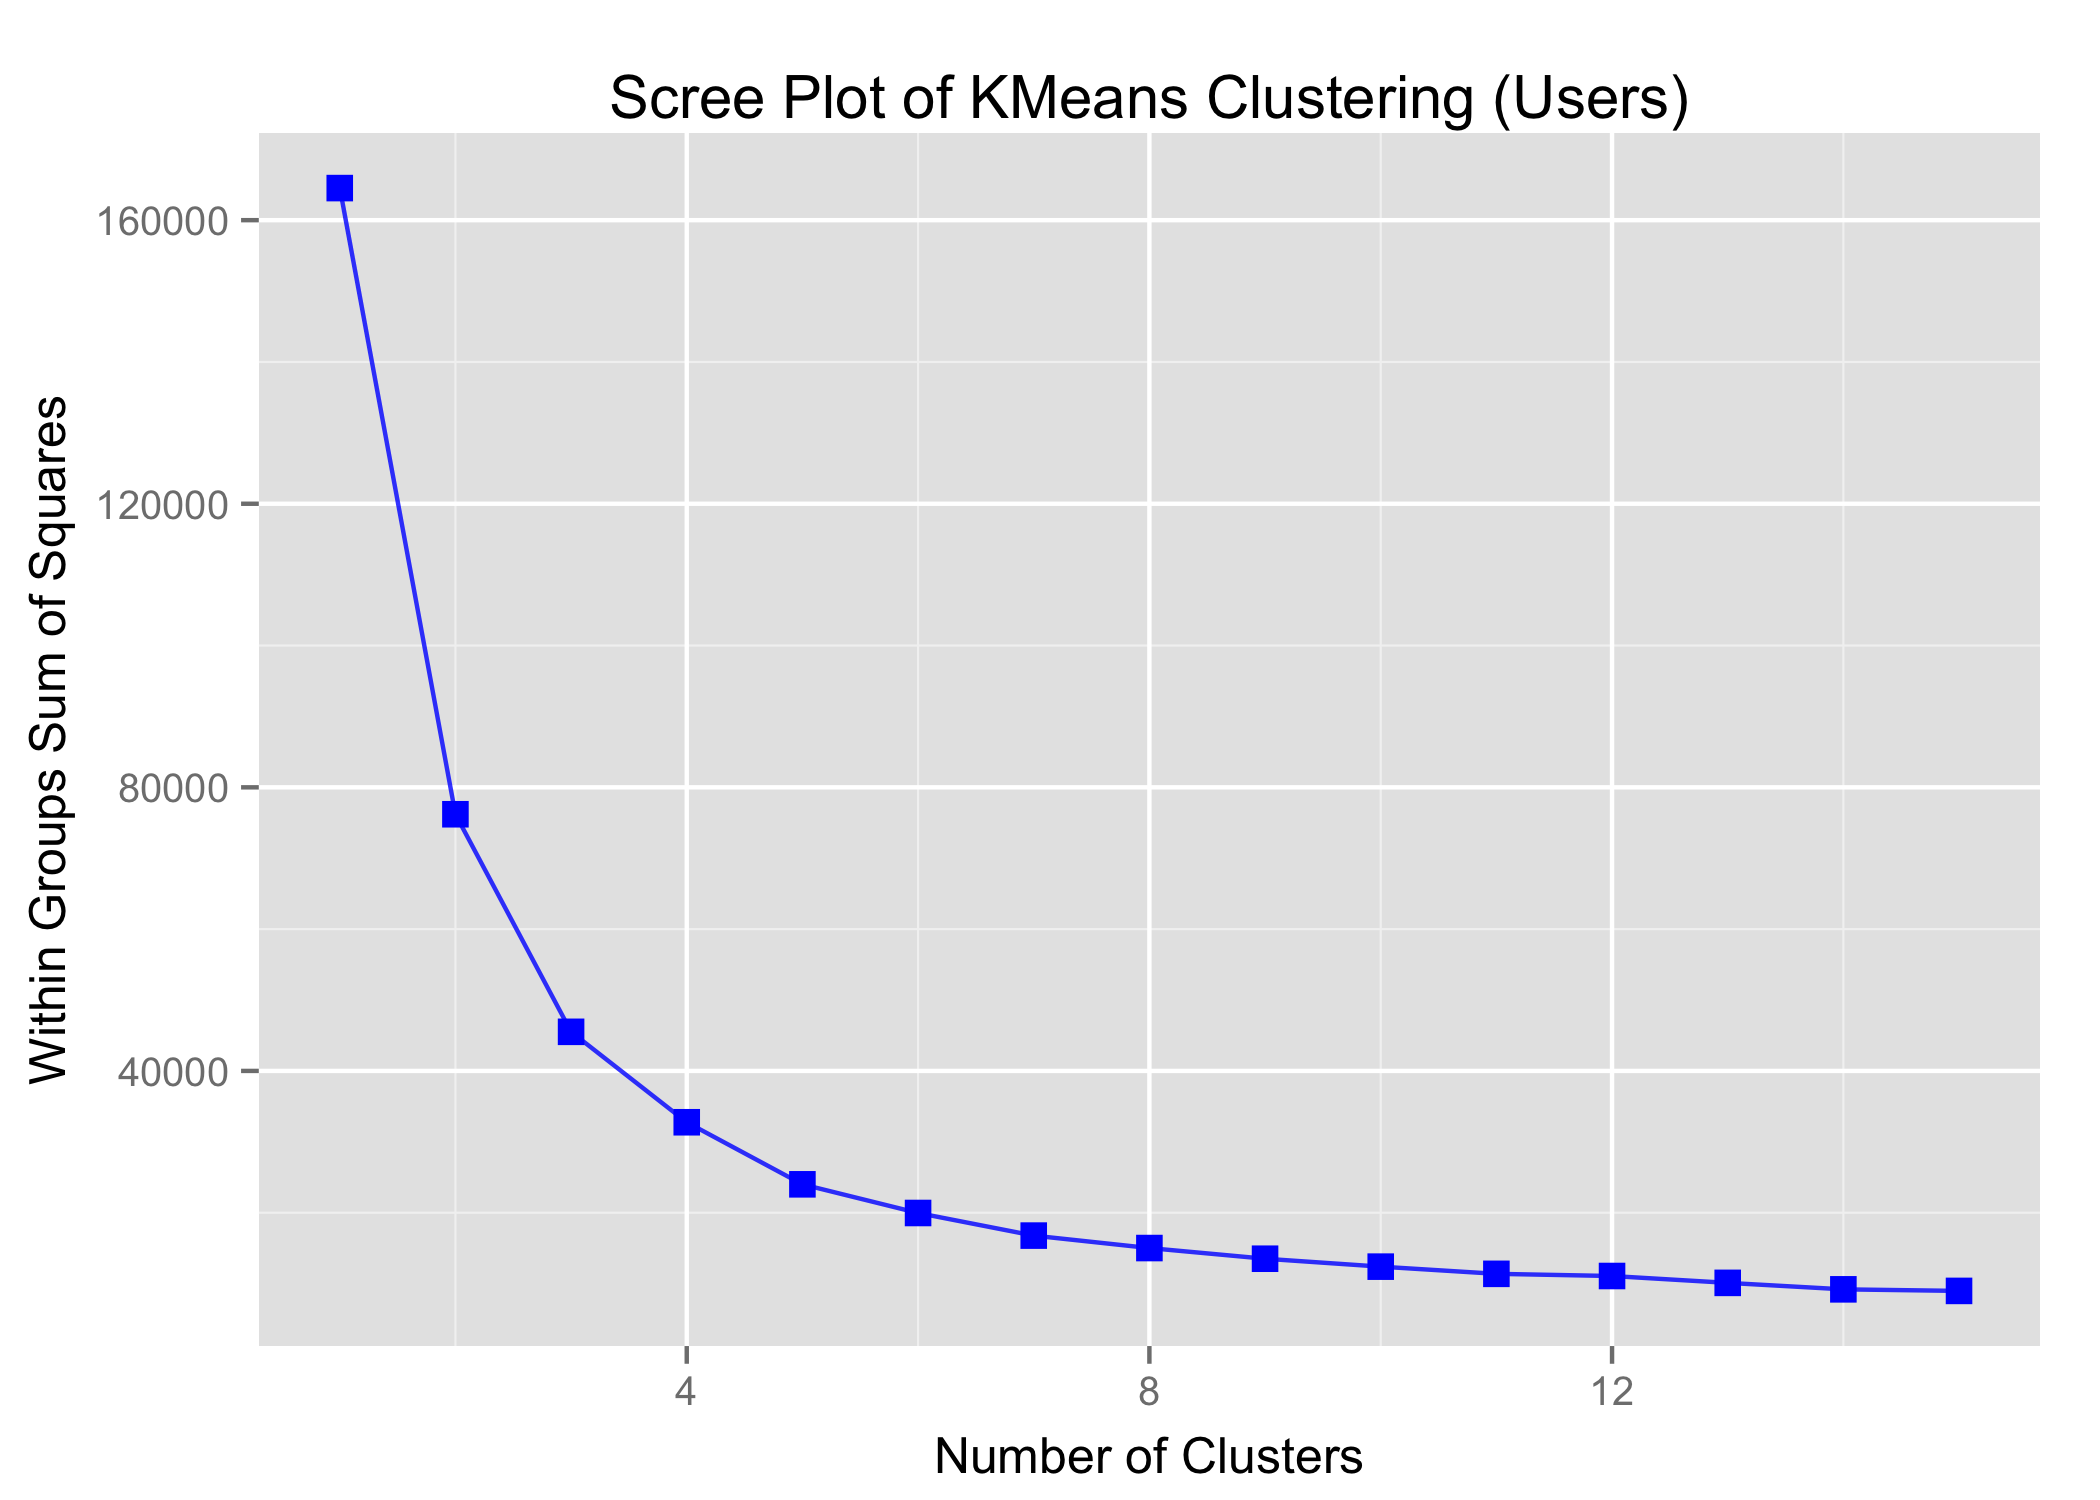
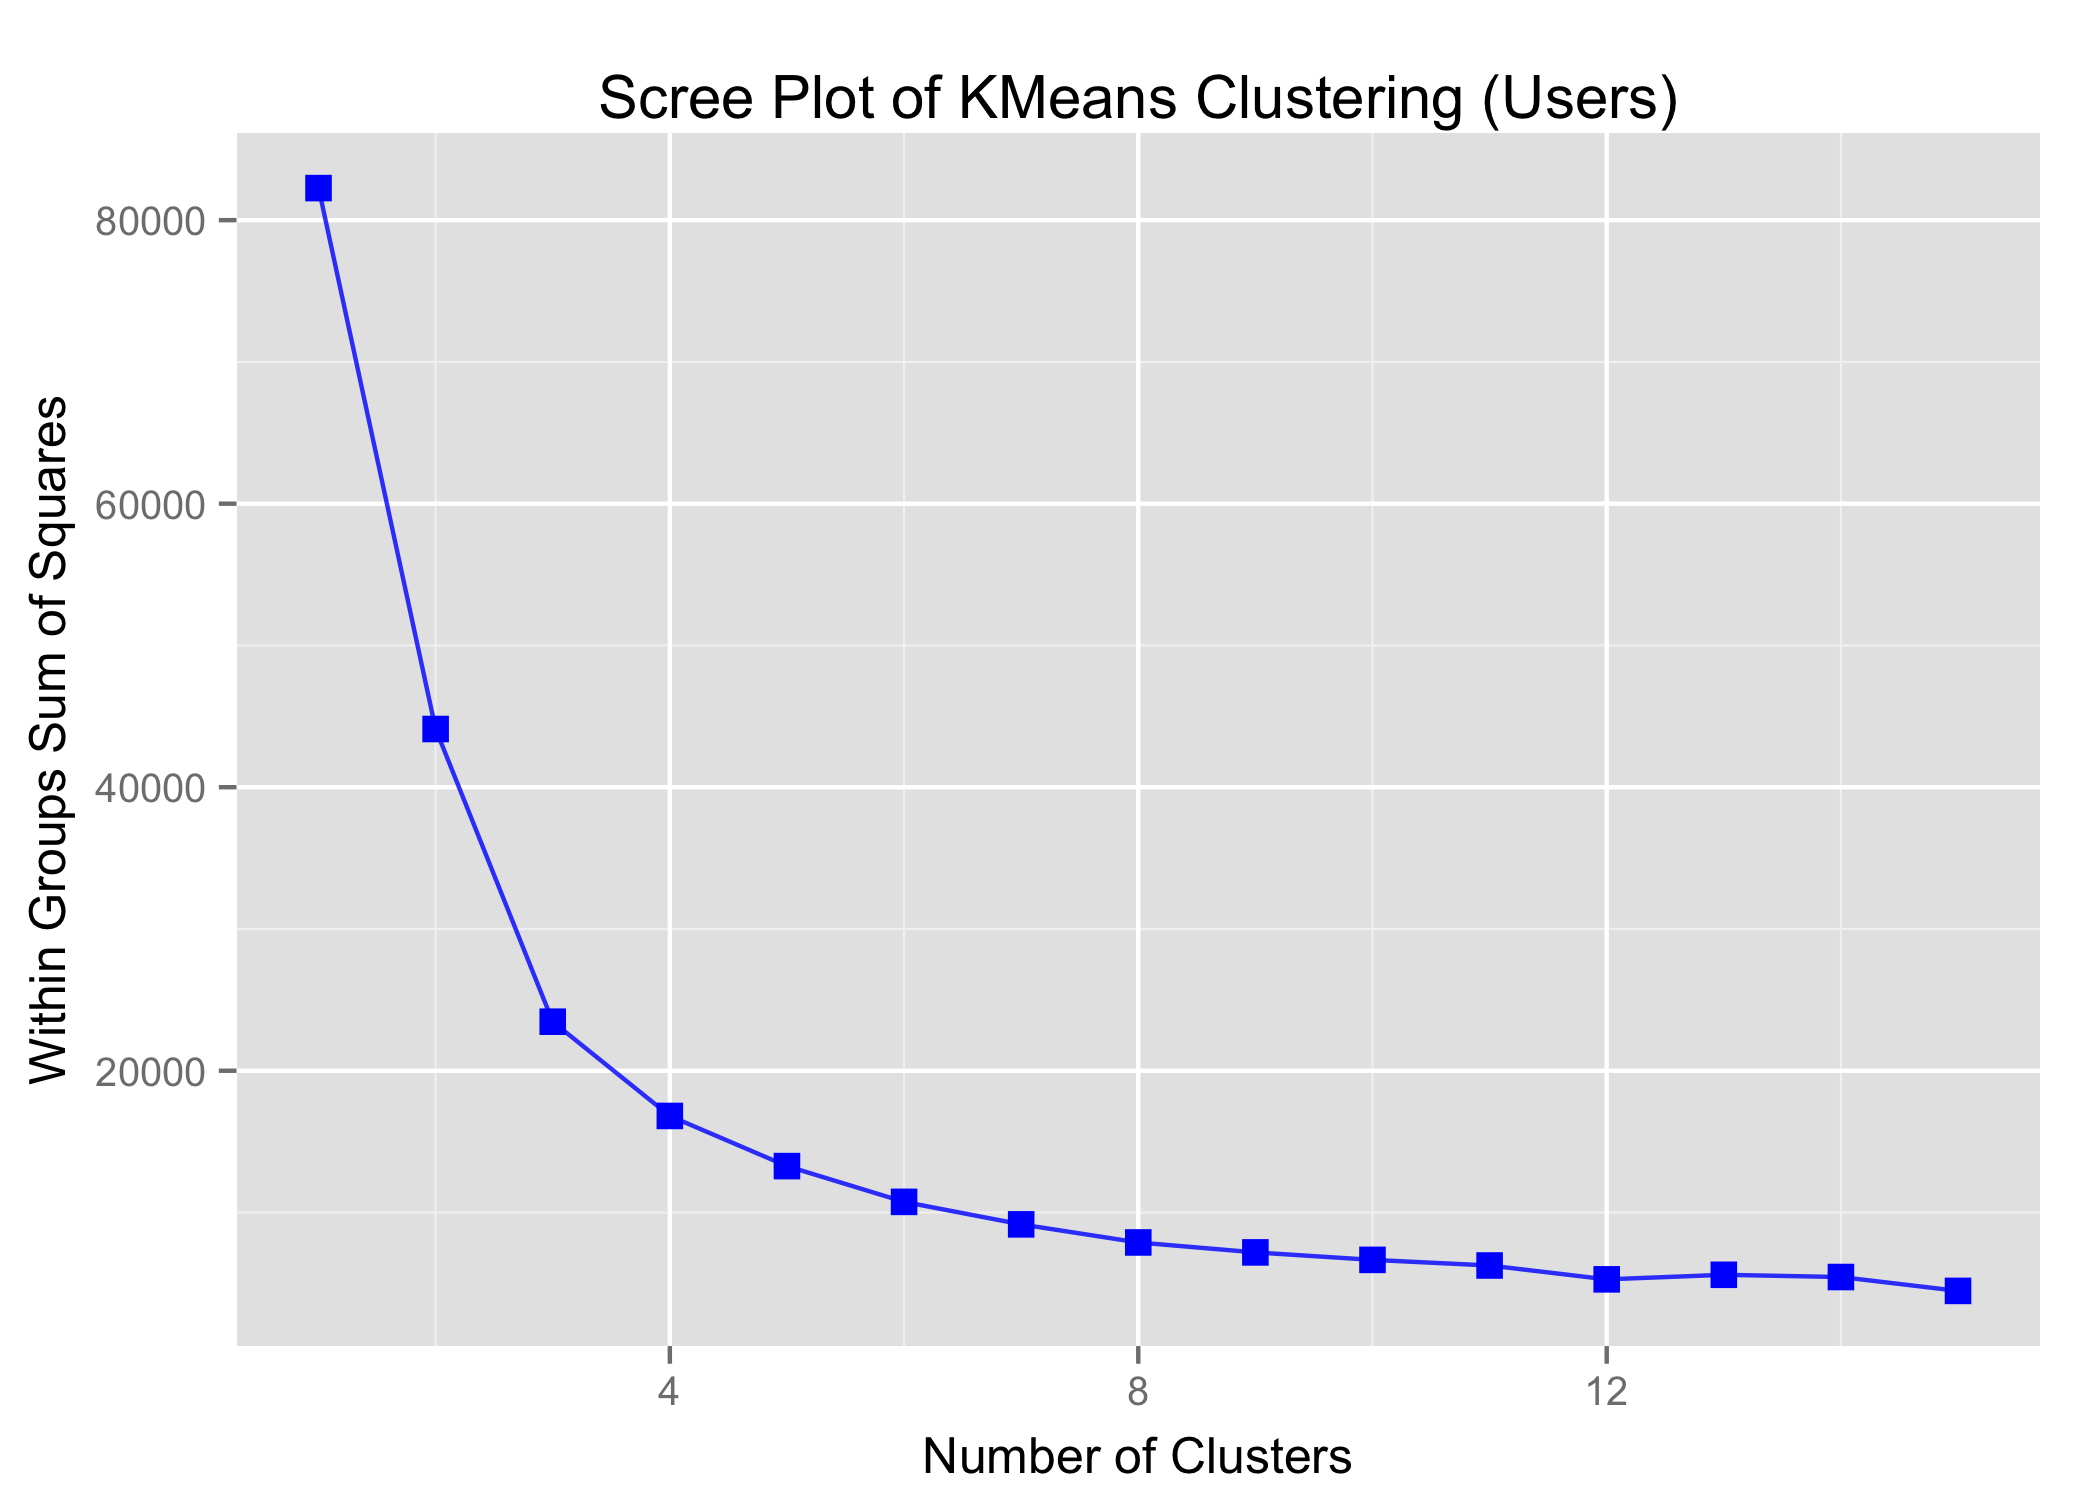
feature updates

diff --git a/FeatureEngineering/featureEngineering_userClustering.py b/FeatureEngineering/featureEngineering_userClustering.py
@@ -1,0 +1,55 @@
+__author__ = 'kaileyhoo'
+
+import pandas as pd
+import numpy as np
+from sklearn.cluster import KMeans
+from sklearn.preprocessing import scale
+
+
+def userCluster(train, test, users):
+    """
+    Clusters uses based on useful votes (do not need funny and cool since all three are extremely
+    correlated), review count, and users' average stars. Adds the user clusters to the array and
+    drops the user id
+    :param train: numpy array of training data without user_ids
+    :param test: numpy array of test data
+    :param users: df of user_ids
+    :return: numpy arrays without user_id
+    """
+    # convert data back into dataframes
+    users_train = pd.DataFrame(train)
+    users_test = pd.DataFrame(test)
+
+    # add users back into traning set
+    users_train['user_id'] = users
+
+    # subset to only the user review information
+    users_train = users_train.loc[:, ['user_id', 'u_votes_useful', 'u_review_count', 'u_stars_update']]
+    users_test = users_test.loc[:, ['u_votes_useful', 'u_review_count', 'u_stars_update']]
+
+    # remove all duplicates and na values
+    unique_users = users_train.drop_duplicates()
+    unique_users = unique_users.dropna()
+
+    # only need features (drop user_id)
+    features = unique_users.loc[:, ['u_votes_useful', 'u_review_count', 'u_stars_update']]
+
+    # scale the features
+    feature_scaled = scale(np.array(features))
+
+    # create clusters based on user_id level
+    model = KMeans(n_clusters=5)
+    model.fit(feature_scaled)
+    unique_users['cluster_labels'] = model.labels_
+
+    # add clusters into original data
+    users_train_update = pd.merge(users_train, unique_users, on='user_id', how='left')
+    users_train_update.drop('user_id', axis=1, inplace=True)
+    np_train = np.array(users_train_update)
+
+    # use fitted model to add clusters to test data
+    test_feature_scale = scale(np.array(users_test))
+    users_test['cluster_labels'] = model.predict(test_feature_scale)
+    np_test = np.array(users_test)
+
+    return np_train, np_test

diff --git a/FeatureEngineering/applyNewFeatures.py b/FeatureEngineering/applyNewFeatures.py
@@ -1,13 +1,22 @@
 __author__ = 'griffin'
 
 import pandas as pd
-from data_processing import numpyArrays
+from data_processing_update import numpyArrays
 from featureEngineering_CategoryReduction import reduceCategories
+from featureEngineering_userClustering import userCluster
 
 # Import the data
-training = pd.read_csv("../training_init.csv")
-test = pd.read_csv("../testing_init.csv")
+training = pd.read_csv("../training_2.csv")
+test = pd.read_csv("../testing_2.csv")
 
+# Create dictionary of user_id with index
+user_id = training['user_id']
+
+# Drop user_id from dataframes
+training.drop('user_id', axis=1, inplace=True)
+test.drop('user_id', axis=1, inplace=True)
+
+# Create numpy arrays
 X_train, y_train = numpyArrays(training)
 X_test, y_test = numpyArrays(test)
 
@@ -15,3 +24,5 @@ X_test, y_test = numpyArrays(test)
 category_col_indices = [idx for idx, col in enumerate(training.columns) if 'b_categories_' in col]
 X_train, X_test = reduceCategories(X_train, X_test, category_col_indices)
 
+# Add in column for user clusters
+X_train, X_test = userCluster(X_train, X_test, user_id)
